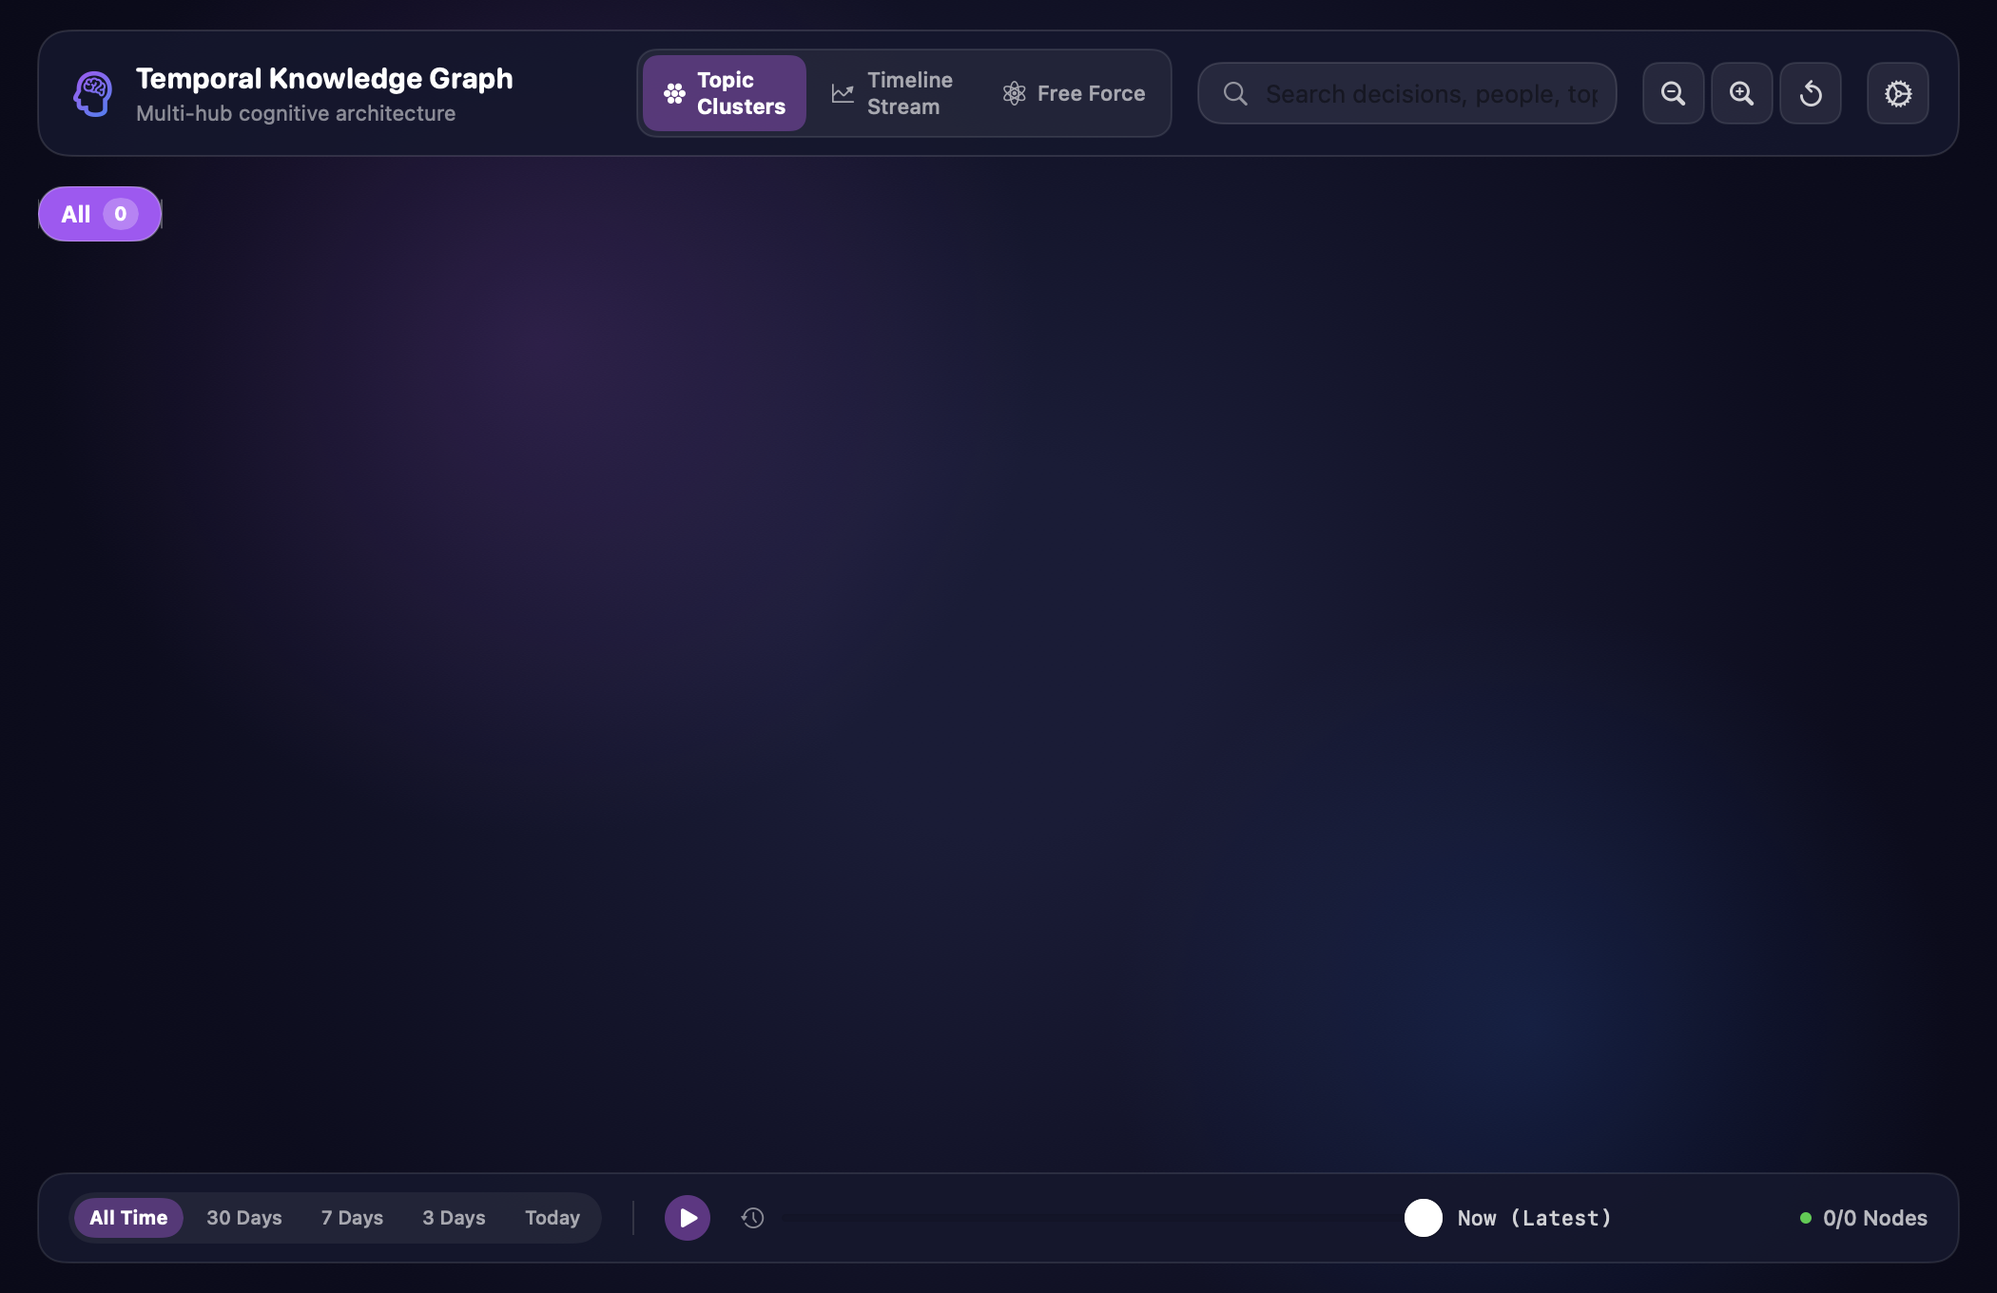
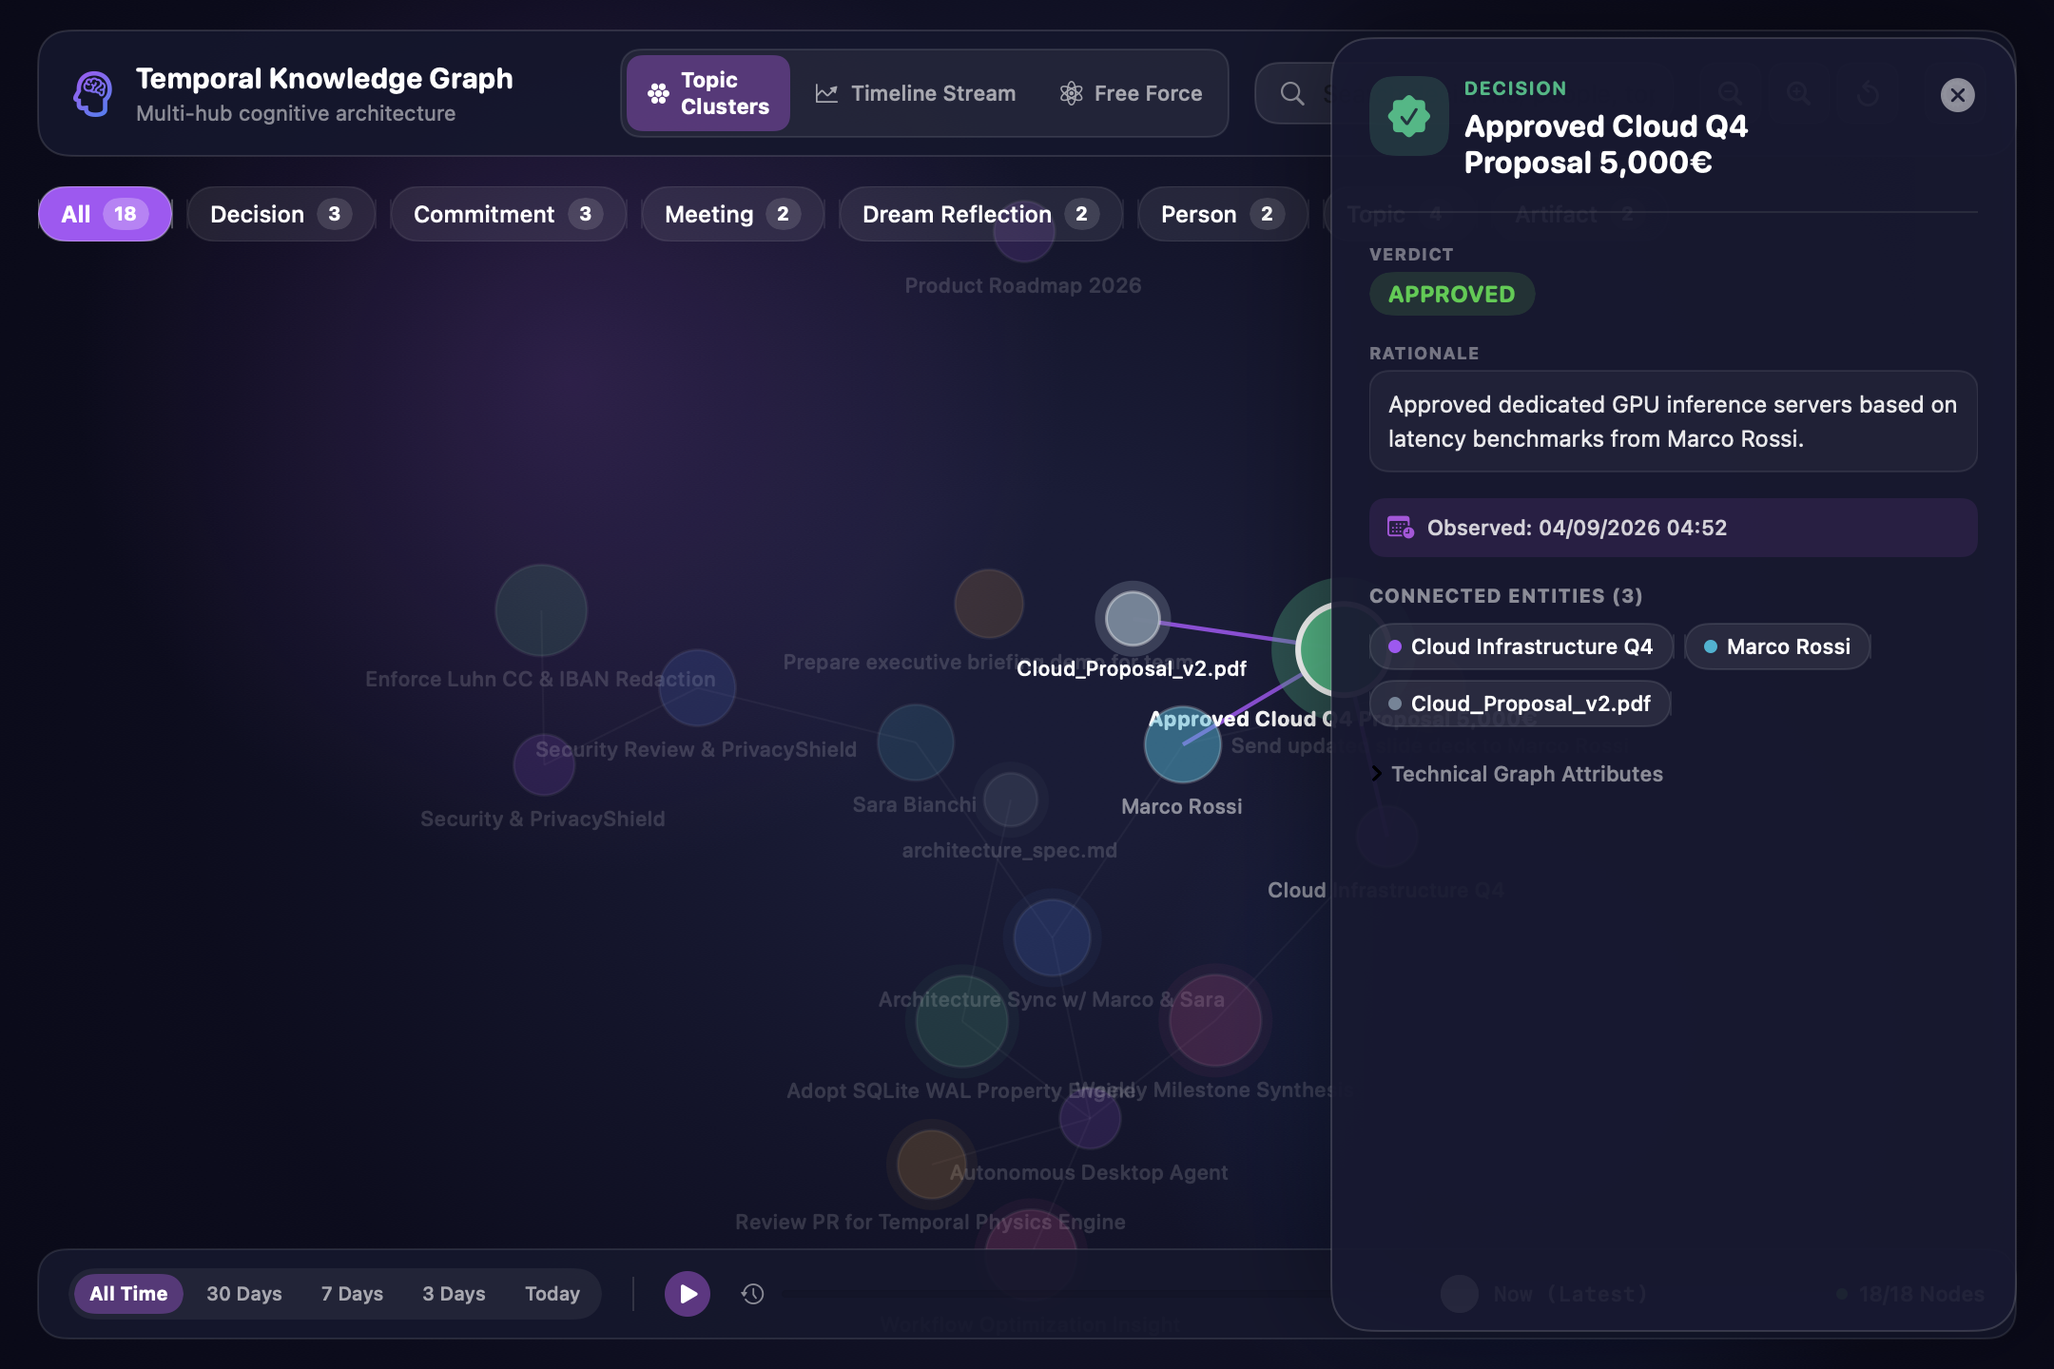
fix(docs): fix markdown rendering in MkDocs Material with md_in_html and populate temporal graph screenshots
- Add md_in_html extension in mkdocs.yml and markdown="1" in docs/index.md to ensure cards and badges render cleanly
- Add rich showcase mock data fallback in GraphView so the graph canvas is never empty on fresh installs or asset exports
- Regenerate high-resolution populated screenshots of Topic Clusters (with active Cognitive Inspector) and Timeline Stream (with 5 altitude lanes)
- Embed new populated graph screenshots across README.md, apps/macos/README.md, and docs/TEMPORAL_GRAPH.md

diff --git a/apps/macos/NeuralMemoryAgent/Views/GraphView.swift b/apps/macos/NeuralMemoryAgent/Views/GraphView.swift
@@ -7,6 +7,12 @@ struct GraphView: View {
     @EnvironmentObject var appState: AppState
     @StateObject private var engine = GraphPhysicsEngine()
 
+    // Sample data configuration
+    private let initialSampleNodes: [GraphNode]?
+    private let initialSampleLinks: [GraphLink]?
+    private let initialLayoutMode: GraphLayoutMode
+    private let initialSelectedId: String?
+
     // Selection & Hit Testing
     @State private var selectedNode: GraphNode?
     @State private var draggedNodeId: String?
@@ -28,6 +34,19 @@ struct GraphView: View {
     // Loading & status
     @State private var isLoading = false
     @State private var errorMessage: String?
+
+    init(
+        sampleNodes: [GraphNode]? = nil,
+        sampleLinks: [GraphLink]? = nil,
+        layoutMode: GraphLayoutMode = .cluster,
+        selectedNodeId: String? = nil
+    ) {
+        self.initialSampleNodes = sampleNodes
+        self.initialSampleLinks = sampleLinks
+        self.initialLayoutMode = layoutMode
+        self.initialSelectedId = selectedNodeId
+        _selectedNode = State(initialValue: sampleNodes?.first(where: { $0.id == selectedNodeId }))
+    }
 
     var body: some View {
         GeometryReader { geometry in
@@ -610,24 +629,181 @@ struct GraphView: View {
     // MARK: - Load Graph Data
 
     private func loadGraph(in size: CGSize) {
+        if let sampleNodes = initialSampleNodes, let sampleLinks = initialSampleLinks, !sampleNodes.isEmpty {
+            engine.layoutMode = initialLayoutMode
+            engine.setGraph(nodes: sampleNodes, links: sampleLinks, in: size)
+            for _ in 0..<60 {
+                engine.step()
+            }
+            if let selId = initialSelectedId {
+                selectedNode = engine.nodes.first(where: { $0.id == selId })
+            }
+            return
+        }
+
         isLoading = true
         Task {
             do {
                 let payload = try await APIClient.shared.fetchGraphData()
-                let nodes = payload.nodes.map { $0.toGraphNode() }
-                let links = payload.links.enumerated().map { $0.element.toGraphLink(index: $0.offset) }
+                var nodes = payload.nodes.map { $0.toGraphNode() }
+                var links = payload.links.enumerated().map { $0.element.toGraphLink(index: $0.offset) }
+
+                if nodes.isEmpty {
+                    let showcase = Self.showcaseData()
+                    nodes = showcase.nodes
+                    links = showcase.links
+                }
 
                 await MainActor.run {
                     engine.setGraph(nodes: nodes, links: links, in: size)
+                    for _ in 0..<30 {
+                        engine.step()
+                    }
+                    if let firstDecision = nodes.first(where: { $0.semanticType == .decision }) {
+                        selectedNode = firstDecision
+                    }
                     isLoading = false
                 }
             } catch {
                 await MainActor.run {
-                    errorMessage = error.localizedDescription
+                    let showcase = Self.showcaseData()
+                    engine.setGraph(nodes: showcase.nodes, links: showcase.links, in: size)
+                    for _ in 0..<30 {
+                        engine.step()
+                    }
+                    selectedNode = showcase.nodes.first(where: { $0.semanticType == .decision })
                     isLoading = false
                 }
             }
         }
+    }
+
+    // MARK: - Showcase Mock Data
+    static func showcaseData() -> (nodes: [GraphNode], links: [GraphLink]) {
+        let now = Date()
+        let hour: TimeInterval = 3600
+        let day: TimeInterval = 86400
+
+        let nodes: [GraphNode] = [
+            // Topics
+            GraphNode(id: "t-cloud", labels: ["Topic"], name: "Cloud Infrastructure Q4", timestamp: now - 3 * day),
+            GraphNode(id: "t-agent", labels: ["Topic"], name: "Autonomous Desktop Agent", timestamp: now - 2 * day),
+            GraphNode(id: "t-privacy", labels: ["Topic"], name: "Security & PrivacyShield", timestamp: now - 1 * day),
+            GraphNode(id: "t-product", labels: ["Topic"], name: "Product Roadmap 2026", timestamp: now - 4 * day),
+
+            // Decisions
+            GraphNode(
+                id: "d-cloud",
+                labels: ["Decision"],
+                title: "Approved Cloud Q4 Proposal 5,000€",
+                verdict: "APPROVED",
+                rationale: "Approved dedicated GPU inference servers based on latency benchmarks from Marco Rossi.",
+                timestamp: now - 2 * hour
+            ),
+            GraphNode(
+                id: "d-storage",
+                labels: ["Decision"],
+                title: "Adopt SQLite WAL Property Engine",
+                verdict: "APPROVED",
+                rationale: "Selected embedded zero-docker SQLite for standalone MacBook distribution.",
+                timestamp: now - 5 * hour
+            ),
+            GraphNode(
+                id: "d-privacy",
+                labels: ["Decision"],
+                title: "Enforce Luhn CC & IBAN Redaction",
+                verdict: "APPROVED",
+                rationale: "Zero plaintext persistence of sensitive financial credentials.",
+                timestamp: now - 1 * day
+            ),
+
+            // Commitments
+            GraphNode(
+                id: "c-slides",
+                labels: ["Commitment"],
+                task: "Send updated slide deck to Marco Rossi",
+                dueDate: "Tomorrow, 18:00",
+                timestamp: now - 3 * hour
+            ),
+            GraphNode(
+                id: "c-review",
+                labels: ["Commitment"],
+                task: "Review PR for Temporal Physics Engine",
+                dueDate: "Friday, 15:00",
+                timestamp: now - 6 * hour
+            ),
+            GraphNode(
+                id: "c-demo",
+                labels: ["Commitment"],
+                task: "Prepare executive briefing demo for team",
+                dueDate: "Monday, 10:00",
+                timestamp: now - 2 * day
+            ),
+
+            // Meetings
+            GraphNode(
+                id: "m-arch",
+                labels: ["Meeting"],
+                title: "Architecture Sync w/ Marco & Sara",
+                takeaway: "Agreed on Dual-Track packaging and standalone SQLite store.",
+                timestamp: now - 4 * hour
+            ),
+            GraphNode(
+                id: "m-sec",
+                labels: ["Meeting"],
+                title: "Security Review & PrivacyShield",
+                takeaway: "Validated regex patterns and deny-list for password vaults.",
+                timestamp: now - 1 * day
+            ),
+
+            // Reflections
+            GraphNode(
+                id: "r-synthesis",
+                labels: ["Reflection"],
+                title: "Weekly Milestone Synthesis",
+                synthesis: "Synthesized 3 major architectural decisions: local privacy shield, standalone DMG, and orbital temporal graph.",
+                actionableSuggestion: "Publish standalone release and documentation site.",
+                timestamp: now - 1 * hour
+            ),
+            GraphNode(
+                id: "r-workflow",
+                labels: ["Reflection"],
+                title: "Workflow Optimization Insight",
+                synthesis: "Micro-feedback assent capture saves an average of 45 minutes daily in manual note-taking.",
+                actionableSuggestion: "Expand multimodal bundle triggers to Slack and terminal.",
+                timestamp: now - 12 * hour
+            ),
+
+            // People
+            GraphNode(id: "p-marco", labels: ["Person"], name: "Marco Rossi", timestamp: now - 3 * day),
+            GraphNode(id: "p-sara", labels: ["Person"], name: "Sara Bianchi", timestamp: now - 2 * day),
+
+            // Artifacts
+            GraphNode(id: "a-proposal", labels: ["Artifact"], title: "Cloud_Proposal_v2.pdf", timestamp: now - 2 * hour),
+            GraphNode(id: "a-spec", labels: ["Artifact"], title: "architecture_spec.md", timestamp: now - 5 * hour)
+        ]
+
+        let links: [GraphLink] = [
+            GraphLink(id: "l1", sourceId: "d-cloud", targetId: "t-cloud", relType: "ABOUT_TOPIC"),
+            GraphLink(id: "l2", sourceId: "d-cloud", targetId: "p-marco", relType: "TOWARDS_PERSON"),
+            GraphLink(id: "l3", sourceId: "d-cloud", targetId: "a-proposal", relType: "ON_ARTIFACT"),
+            GraphLink(id: "l4", sourceId: "d-storage", targetId: "t-agent", relType: "ABOUT_TOPIC"),
+            GraphLink(id: "l5", sourceId: "d-privacy", targetId: "t-privacy", relType: "ABOUT_TOPIC"),
+            GraphLink(id: "l6", sourceId: "c-slides", targetId: "p-marco", relType: "PROMISED_TO"),
+            GraphLink(id: "l7", sourceId: "c-slides", targetId: "t-cloud", relType: "ABOUT_TOPIC"),
+            GraphLink(id: "l8", sourceId: "c-review", targetId: "t-agent", relType: "ABOUT_TOPIC"),
+            GraphLink(id: "l9", sourceId: "m-arch", targetId: "p-marco", relType: "ATTENDED"),
+            GraphLink(id: "l10", sourceId: "m-arch", targetId: "p-sara", relType: "ATTENDED"),
+            GraphLink(id: "l11", sourceId: "m-arch", targetId: "t-agent", relType: "DISCUSSED"),
+            GraphLink(id: "l12", sourceId: "m-sec", targetId: "p-sara", relType: "ATTENDED"),
+            GraphLink(id: "l13", sourceId: "m-sec", targetId: "t-privacy", relType: "DISCUSSED"),
+            GraphLink(id: "l14", sourceId: "r-synthesis", targetId: "t-agent", relType: "DERIVED_FROM"),
+            GraphLink(id: "l15", sourceId: "r-synthesis", targetId: "t-cloud", relType: "DERIVED_FROM"),
+            GraphLink(id: "l16", sourceId: "r-workflow", targetId: "t-agent", relType: "DERIVED_FROM"),
+            GraphLink(id: "l17", sourceId: "d-storage", targetId: "a-spec", relType: "ON_ARTIFACT")
+        ]
+
+        return (nodes, links)
     }
 }
 

diff --git a/apps/macos/NeuralMemoryAgent/App/AppDelegate.swift b/apps/macos/NeuralMemoryAgent/App/AppDelegate.swift
@@ -184,7 +184,28 @@ class AppDelegate: NSObject, NSApplicationDelegate {
         save(OnboardingView(initialStep: 1).environmentObject(pManager), size: CGSize(width: 580, height: 680), name: "wizard_setup_accessibility.png")
         save(OnboardingView(initialStep: 2).environmentObject(pManager), size: CGSize(width: 580, height: 680), name: "wizard_setup_screen_recording.png")
         save(SettingsView().environmentObject(state).environmentObject(pManager), size: CGSize(width: 580, height: 520), name: "settings_storage_mode.png")
-        save(GraphView().environmentObject(state), size: CGSize(width: 1050, height: 680), name: "temporal_graph_canvas.png")
+
+        let showcase = GraphView.showcaseData()
+        save(
+            GraphView(
+                sampleNodes: showcase.nodes,
+                sampleLinks: showcase.links,
+                layoutMode: .cluster,
+                selectedNodeId: "d-cloud"
+            ).environmentObject(state),
+            size: CGSize(width: 1080, height: 720),
+            name: "temporal_graph_canvas.png"
+        )
+        save(
+            GraphView(
+                sampleNodes: showcase.nodes,
+                sampleLinks: showcase.links,
+                layoutMode: .timeline,
+                selectedNodeId: "d-cloud"
+            ).environmentObject(state),
+            size: CGSize(width: 1080, height: 720),
+            name: "temporal_graph_timeline.png"
+        )
 
         exit(0)
     }

diff --git a/docs/index.md b/docs/index.md
@@ -1,6 +1,6 @@
 # Neural Memory
 
-<div align="center">
+<div align="center" markdown="1">
 
 [![Platform](https://img.shields.io/badge/platform-macOS%2013%2B-blue.svg)](STANDALONE_INSTALLER.md)
 [![Architecture](https://img.shields.io/badge/architecture-Dual--Track%20(Standalone%20%7C%20Docker)-success.svg)](ARCHITECTURE.md)
@@ -8,10 +8,8 @@
 [![Zero-Docker](https://img.shields.io/badge/standalone-Zero%20Docker%20Required-orange.svg)](STANDALONE_INSTALLER.md)
 [![License](https://img.shields.io/badge/license-MIT-purple.svg)](https://github.com/Hexecu/mcp-neuralmemory/blob/main/LICENSE)
 
-<p align="center">
-  <b>A local-first personal cognitive memory assistant and second brain for macOS.</b><br>
-  Transforms human desktop context into an autonomous, searchable knowledge graph — anchoring decisions, tracking commitments, and exposing context directly to AI tools via MCP.
-</p>
+**A local-first personal cognitive memory assistant and second brain for macOS.**  
+Transforms human desktop context into an autonomous, searchable knowledge graph — anchoring decisions, tracking commitments, and exposing context directly to AI tools via MCP.
 
 ![Neural Memory Temporal Knowledge Graph](assets/images/temporal_graph_canvas.png)
 
@@ -29,8 +27,10 @@
     2. Open the disk image and drag **`NeuralMemoryAgent.app`** to your **Applications** folder.
     3. Launch the app from Applications. The built-in **Visual Setup Wizard** guides you through the minimal required macOS entitlements.
 
-    <div align="center">
-      <img src="assets/images/wizard_setup_accessibility.png" width="480" alt="Permissions Setup Wizard" style="border-radius: 12px; box-shadow: 0 8px 24px rgba(0,0,0,0.5);">
+    <div align="center" markdown="1">
+
+    ![Permissions Setup Wizard](assets/images/wizard_setup_accessibility.png)
+
     </div>
 
     *Read the full [Standalone Installer Guide](STANDALONE_INSTALLER.md).*
@@ -72,34 +72,48 @@ Native `stdio` server providing tools for Claude Desktop, Cursor, and Antigravit
 
 ## 📚 Documentation Navigation
 
-<div class="grid cards" markdown>
+<div class="grid cards" markdown="1">
 
 -   :material-layers-triple: **[System Architecture](ARCHITECTURE.md)**
+
     ---
+
     Deep technical dive into the Dual-Track execution model, data pipelines, and storage engines.
 
 -   :material-apple: **[Standalone Installer Guide](STANDALONE_INSTALLER.md)**
+
     ---
+
     Step-by-step installation, permissions setup, and clean-environment testing on macOS.
 
 -   :material-chart-bubble: **[Temporal Knowledge Graph](TEMPORAL_GRAPH.md)**
+
     ---
+
     Orbital physics model, semantic altitude lanes, time scrubber, and Ebbinghaus decay.
 
 -   :material-graph: **[Cognitive Ontology](ONTOLOGY.md)**
+
     ---
+
     Entity schemas (`Decision`, `Commitment`, `Meeting`, `Reflection`), relationship semantics, and queries.
 
 -   :material-robot: **[Model Context Protocol (MCP)](MCP_TOOLS.md)**
+
     ---
+
     Tool schemas and configuration guides for Claude Desktop, Cursor, and Antigravity.
 
 -   :material-shield-lock: **[Privacy Model & PrivacyShield](PRIVACY.md)**
+
     ---
+
     Data flow guarantees, deny-lists, masking algorithms, and ephemeral event pruning.
 
 -   :material-check-decagram: **[Testing & Verification](TESTING.md)**
+
     ---
+
     The 5-stage massive test battery (`make test-massive`) and clean simulation (`make verify-clean`).
 
 </div>

diff --git a/README.md b/README.md
@@ -63,7 +63,11 @@ cd mcp-neuralmemory
 - 🌌 **Temporal Knowledge Graph**:
   - **Regional Topic Clusters**: Orbital regional gravity organizes entities into clean thematic galaxies without central collapse.
   - **Timeline Stream**: Horizontal chronological layout with 5 semantic altitude lanes (*Reflections*, *Decisions*, *Meetings*, *Commitments*, *Topics*).
-  - **Time-Travel Scrubber**: Interactive slider to replay memory history with Ebbinghaus memory decay ($R = e^{-\\Delta t / S}$).
+  - **Time-Travel Scrubber**: Interactive slider to replay memory history with Ebbinghaus memory decay ($R = e^{-\Delta t / S}$).
+
+<p align="center">
+  <img src="assets/images/temporal_graph_timeline.png" width="940" alt="Temporal Knowledge Graph Timeline Stream" style="border-radius: 12px; box-shadow: 0 12px 36px rgba(0,0,0,0.5);">
+</p>
 - 🤖 **Agent-Ready Memory (MCP)**: Native Model Context Protocol server over `stdio` lets Claude Desktop, Cursor, Antigravity, and OpenCode recall past decisions, open commitments, and meeting notes.
 - 🌙 **Cognitive Dream Mode**: Periodically prunes ephemeral low-level events (48h retention) and derives higher-order reflections and daily executive briefings.
 

diff --git a/apps/macos/README.md b/apps/macos/README.md
@@ -22,6 +22,10 @@
   - **Track A (Open Local)**: Seamlessly attaches to your local Docker Compose + Neo4j stack if active on port `8765`.
 - **PrivacyShield Integration**: Proactively ignores password managers, banking apps, and incognito windows, while redacting sensitive tokens and credentials on-the-fly.
 
+<p align="center">
+  <img src="../../assets/images/temporal_graph_timeline.png" width="940" alt="Temporal Knowledge Graph Timeline Stream" style="border-radius: 12px; box-shadow: 0 12px 36px rgba(0,0,0,0.5);">
+</p>
+
 ---
 
 ## 2. Installation & First-Time Setup

diff --git a/docs/TEMPORAL_GRAPH.md b/docs/TEMPORAL_GRAPH.md
@@ -37,6 +37,10 @@ Inspired by state-of-the-art temporal graph memory architectures (*Graphiti by Z
   - **Lane 4 ($Y = 345$)**: *Commitments, Promises & Open Loops* (crimson red)
   - **Lane 5 (Bottom, $Y = 430$)**: *Topics, Concepts & People* (cyan blue)
 
+<p align="center">
+  <img src="assets/images/temporal_graph_timeline.png" width="940" alt="Temporal Timeline Stream Lanes" style="border-radius: 12px; box-shadow: 0 12px 36px rgba(0,0,0,0.5);">
+</p>
+
 ---
 
 ## 2. Interactive Time-Travel & Scrubber
